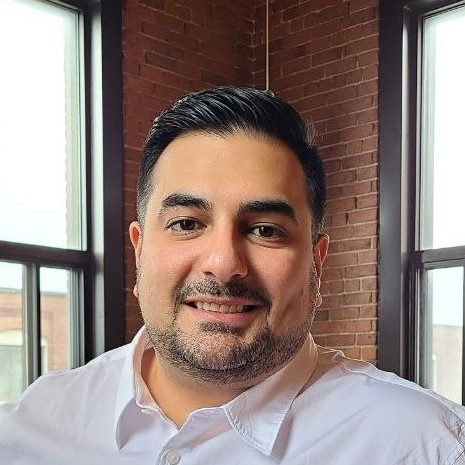
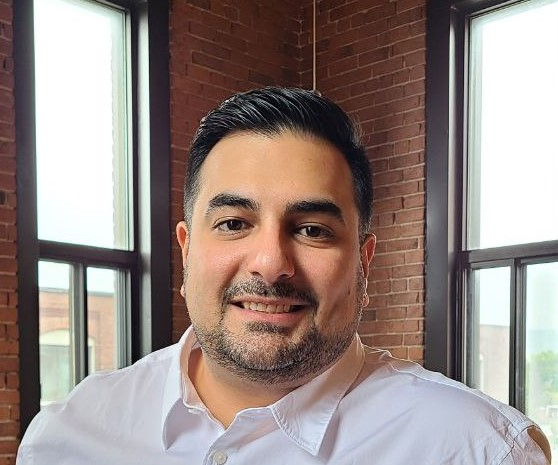
added alex new face

diff --git a/index.html b/index.html
@@ -333,10 +333,10 @@
 											</li>
 											<li>
 												<div class="mu-single-event">
-													<img src="assets/images/Alexander.jpg" alt="event speaker">
+													<img src="assets/images/Alexander.jpeg" alt="event speaker">
 													<p class="mu-event-time">3:10 - 3:30 PM</p>
-													<h3>Will crypto bounce back in 2023?</h3>
-													<span>By Alexander Romanowski</span>
+													<h3>Blockchain Evolution: My Personal Experience and
+														Predictions</span>
 												</div>
 											</li>
 											<!-- <li>
@@ -622,7 +622,7 @@
 									<!-- Start single speaker -->
 
 									<div class="mu-single-speakers">
-										<img src="assets/images/ALEXANDER.jpg" alt="speaker img">
+										<img src="assets/images/ALEXANDER.jpeg" alt="speaker img">
 										<div class="mu-single-speakers-info">
 											<h3>Alexander Romanowski</h3>
 											<p>Researcher</p>
